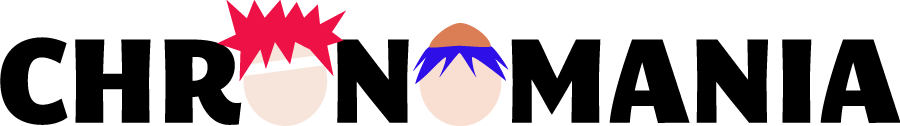
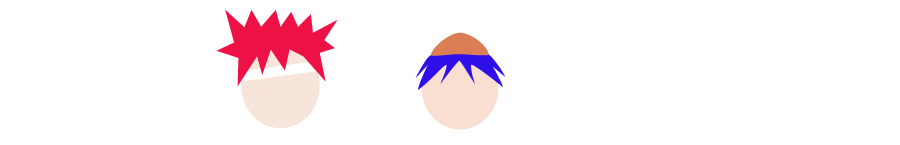
Alteração no layout da página
Adicionada fonte similar à Chicago (fonte do CT) mas de Domínio Público; adicionada também fundo baseado na borda da janela de CT; logo novo

diff --git a/style.css b/style.css
@@ -1,15 +1,25 @@
+@charset "UTF-8";
+
+@import url("https://fontlibrary.org/face/chicagoflf");
 
 body
 {
-	background-image: url("img/bg.png");
-	background-size: cover;
-	background-repeat: no-repeat;
[1 lines of base64/hex data omitted]
+	image-rendering: pixelated;
+	background-size: 128px;
+	background-repeat: repeat;
 	background-attachment: fixed;
 	background-position: center;
+	font-family: 'ChicagoFLFRegular'; 
+	font-weight: normal; 
+	font-style: normal; 
+	color: white;
 }
+
 
 #page_banner
 {
+	image-rendering: auto;
 	margin-top: 1em;
 }
 
@@ -19,13 +29,17 @@ body
 }
 .social_legend
 {
-	color: #6b6b6b;
-	font-size: 0.8em;
+	color: #fff;
+	font-size: 0.9em;
 	text-align: center;
 }
 .social_legend:hover
 {
-	color: #4c4b4b;
+	color: #f2f2f2;
+}
+.social_link img
+{
+	image-rendering: auto;
 }
 
 .social_link:hover
@@ -40,6 +54,6 @@ body
   bottom: 0;
   left: 0;
   padding: 1rem;
-  background-color: rgba(239, 239, 239, 0.50);
+  /* background-color: rgba(239, 239, 239, 0.50); */
   text-align: center;
 }
